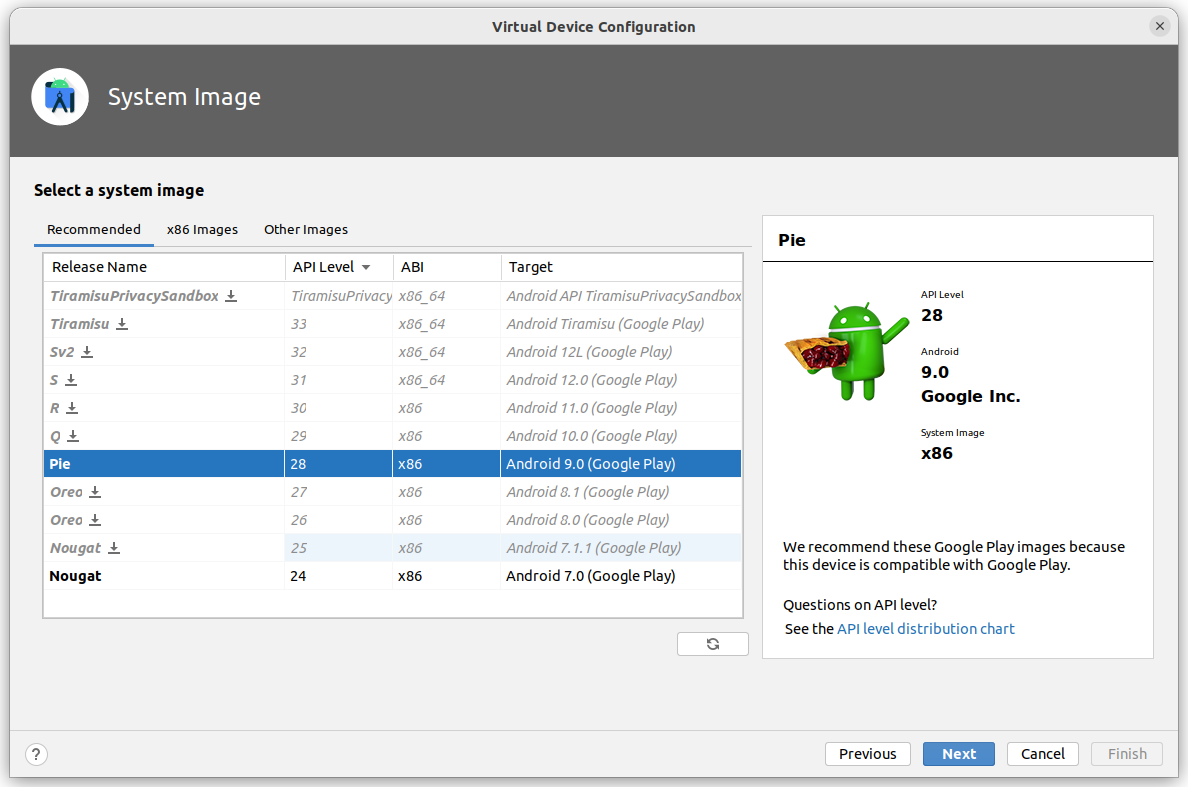
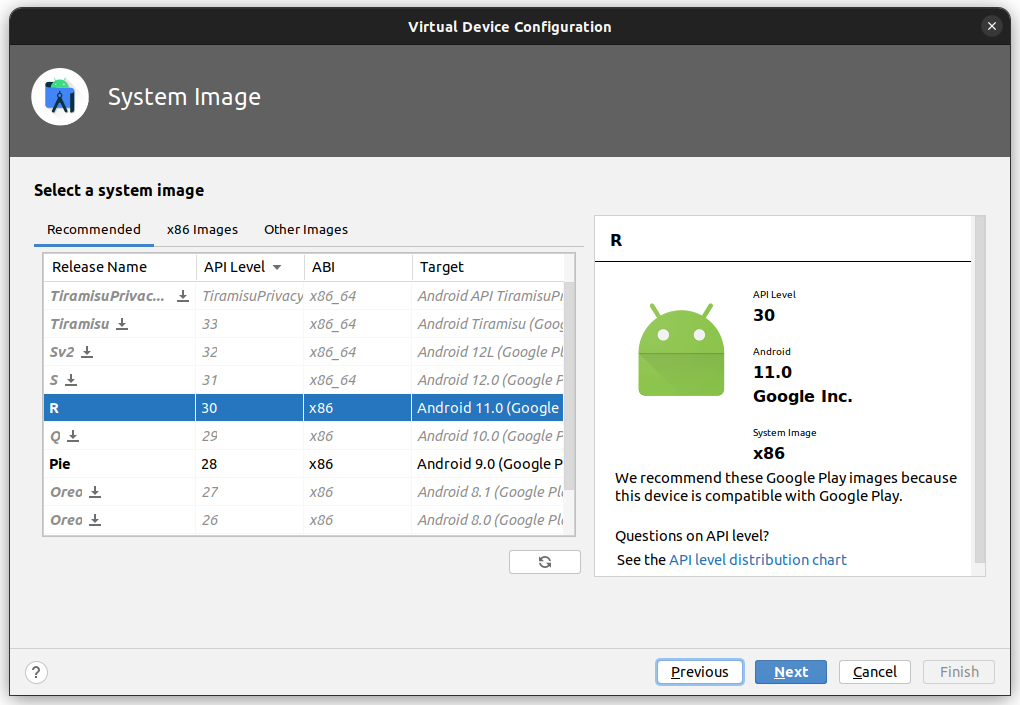
Fix android emulator version

diff --git a/resources/docs/native-setup.md b/resources/docs/native-setup.md
@@ -43,7 +43,7 @@ Next, you're going to need to create a [Virtual Device](https://developer.androi
 
 ![Choose Device](/images/native/setup-choose-device.png)
 
-For the System image, I'm choose API level 28, which is Android Pie.
+For the System image, I'm choose API level 30, which is Android R.
 
 ![System Image](/images/native/setup-system-image.png)
 
